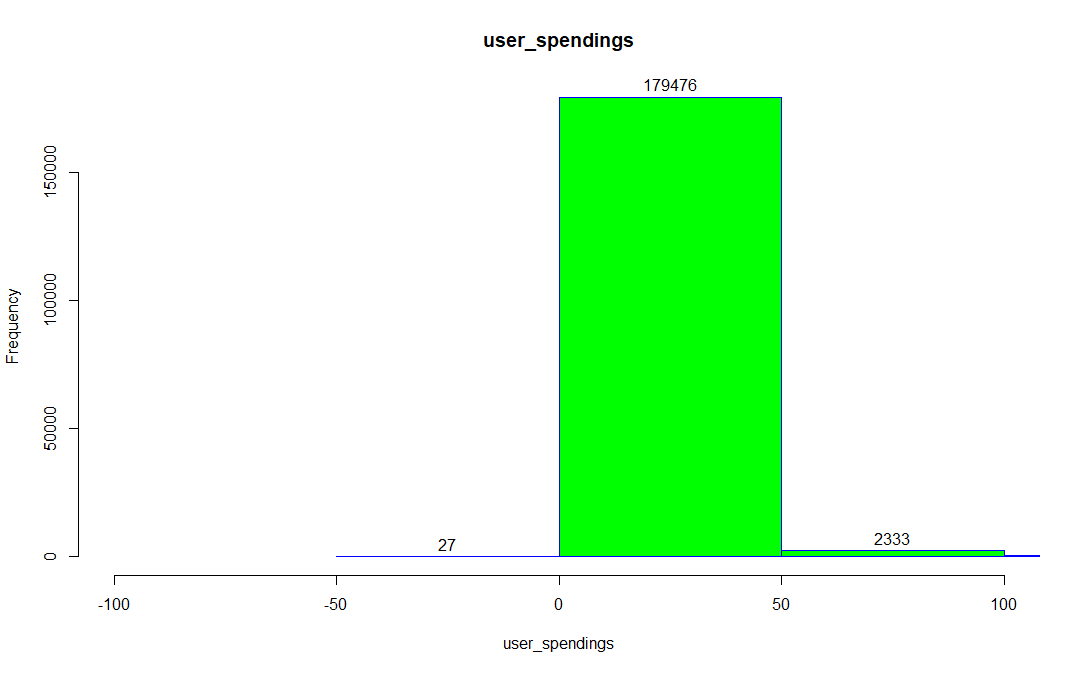
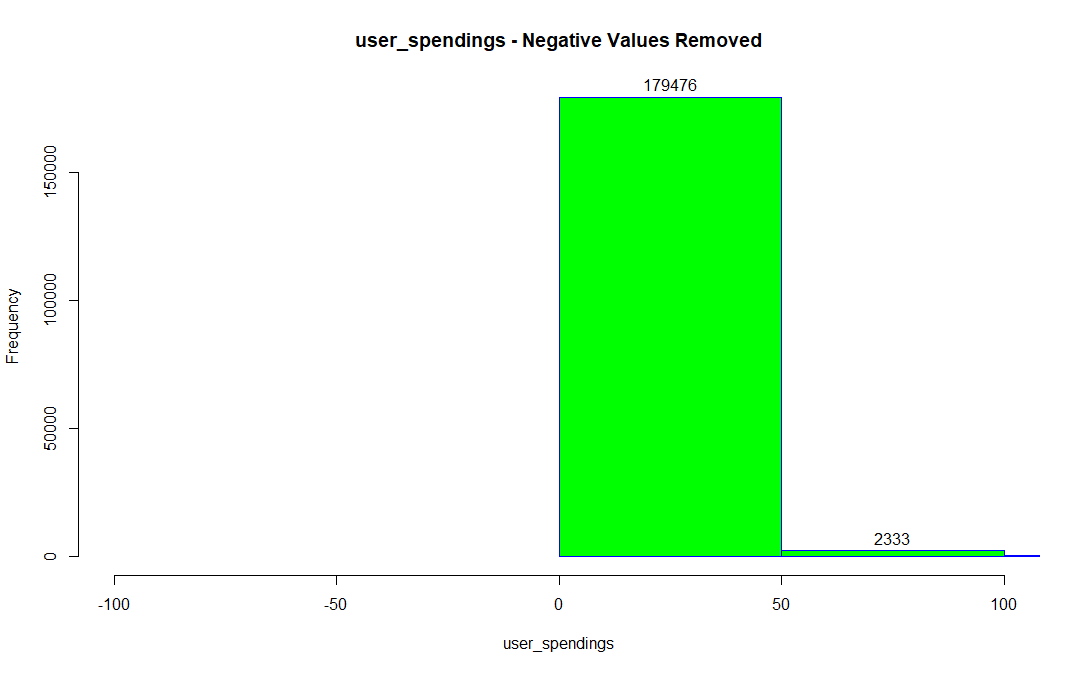
update

Changed region(s): [[0.3361, 0.0312, 0.7028, 0.0936]]

diff --git a/_posts/2019-11-29-testpost.md b/_posts/2019-11-29-testpost.md
@@ -87,10 +87,9 @@ Unfortunately, a 150+ by 150+ matrix does not lend itself well to visualization 
 the terminal space.  Understanding that I would be applying low-bias boosted tree classifier and my objective was to get the best performing model possible, I did not perform any type of feature selection.  Furthermore, I did not remove correlated variables as boosted tree models are generally insensitive to feature standardization and will pick relevant features in the context of model training.
 
 I examined feature distributions individually to identify outliers and find
-erroneous data.  Only one feature, user_spendings, had any suspicious data a handful (27) negative values.  I eliminated these values as erroneous, substituting an NA for
-the negative values.
+erroneous data.  Only one feature, user_spendings, had any suspicious data a deminimis 27 negative values.  For good form, I eliminated these values as erroneous, substituting an NA for the negative values.
 
-<img src="{{site.url}}{{ site.baseurl }}/images/user_spendings_pre.jpeg" alt="this is a placeholder image">  
+The figures below demonstrate the process through which I generated histograms, reviewed, and modified the data.
 
 <img src="{{site.url}}{{ site.baseurl }}/images/user_spendings_pre.jpeg" alt="this is a placeholder image">  
 
